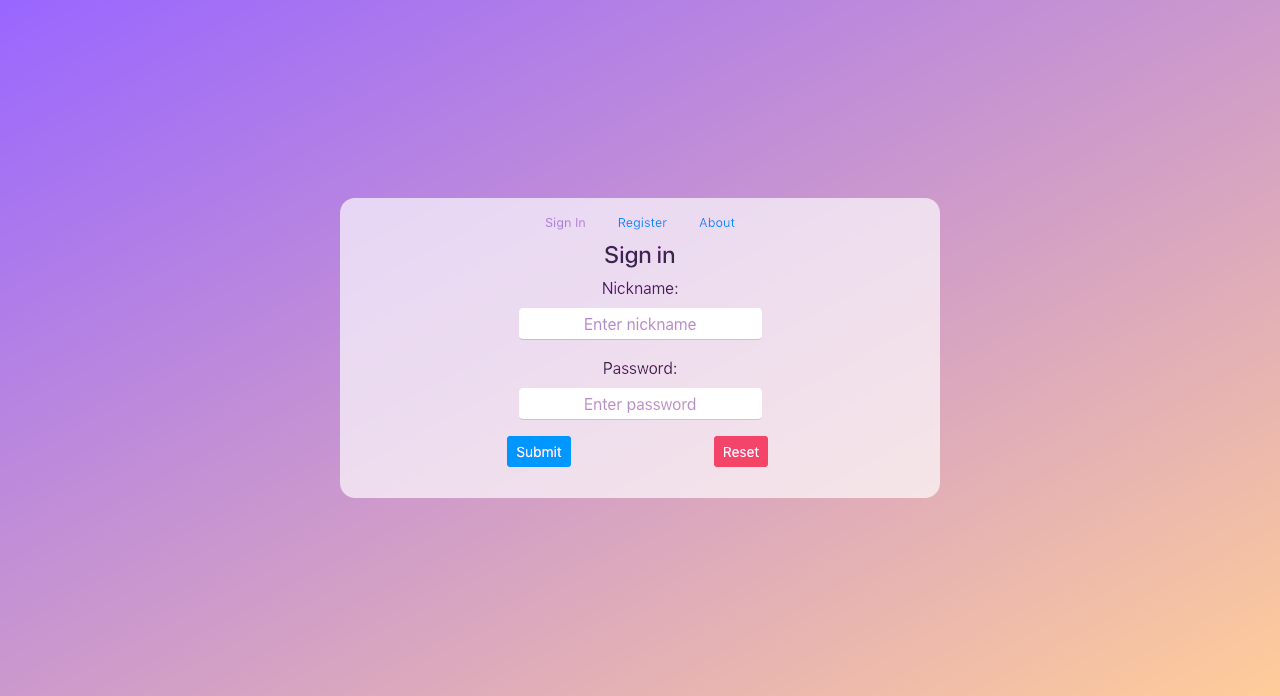
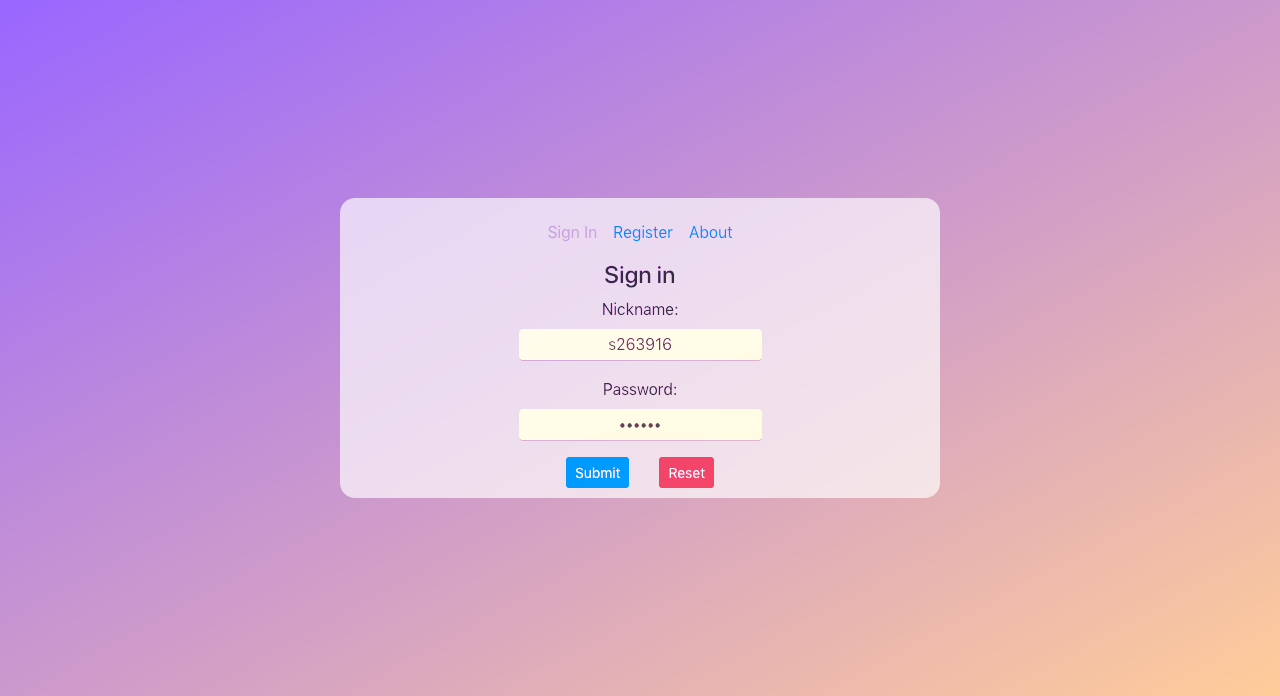
added security enhancements

Changed region(s): [[0.375, 0.3017, 0.625, 0.7241]]

diff --git a/src/components/CoordPlane.vue b/src/components/CoordPlane.vue
@@ -74,6 +74,7 @@
 <script>
     import {eventBus} from "../main";
     import Dot from "./Dot.vue";
+    import toast from "@/lib/toast.js";
 
     export default {
         name: "CoordPlane",
@@ -82,7 +83,7 @@
         },
         data() {
             return {
-                radius: 1
+                radius: 0
             };
         },
         components: {dot: Dot},
@@ -93,21 +94,25 @@
         },
         methods: {
             graphClick(click) {
-                let plane = this.$refs.plane;
-                let width = 250;
-                let height = 250;
-                let coordX = click.pageX - plane.getBoundingClientRect().left;
-                let coordY = click.pageY - plane.getBoundingClientRect().top;
-                let relX = coordX - width / 2;
-                let relY = coordY - height / 2;
-                relY = -relY;
-                let x = (relX / 125) * 6.25;
-                let y = (relY / 125) * 6.25;
-                x = +(x + "").substring(0, 5);
-                y = +(y + "").substring(0, 5);
-                let entry = {x, y};
-                entry.r = this.radius / 20;
-                this.$emit("addentry", entry);
+                if (this.radius > 0) {
+                    let plane = this.$refs.plane;
+                    let width = 250;
+                    let height = 250;
+                    let coordX = click.pageX - plane.getBoundingClientRect().left;
+                    let coordY = click.pageY - plane.getBoundingClientRect().top;
+                    let relX = coordX - width / 2;
+                    let relY = coordY - height / 2;
+                    relY = -relY;
+                    let x = (relX / 125) * 6.25;
+                    let y = (relY / 125) * 6.25;
+                    x = +(x + "").substring(0, 5);
+                    y = +(y + "").substring(0, 5);
+                    let entry = {x, y};
+                    entry.r = this.radius / 20;
+                    this.$emit("addentry", entry);
+                } else {
+                    toast.error("Choose radius!");
+                }
             }
         },
         mounted() {

diff --git a/src/components/Form.vue b/src/components/Form.vue
@@ -62,7 +62,7 @@
         data() {
             return {
                 selectedX: null,
-                selectedR: 0,
+                selectedR: null,
                 selectedY: null,
                 optionsX: [
                     {text: '-3', value: '-3'},
@@ -76,7 +76,6 @@
                     {text: '5', value: '5'}
                 ],
                 optionsR: [
-                    {text: '0', value: '0'},
                     {text: '1', value: '1'},
                     {text: '2', value: '2'},
                     {text: '3', value: '3'},
@@ -104,7 +103,7 @@
                 } else if (Boolean(this.selectedY) && (+this.selectedY < -3 || +this.selectedY > 5)) {
                     return 'Enter number in range of -3..5'
                 } else {
-                    return 'Please enter something'
+                    return 'Please enter a number'
                 }
             },
             validFeedbackY() {

diff --git a/src/store/modules/user.js b/src/store/modules/user.js
@@ -25,7 +25,6 @@ const mutations = {
         state.password = password;
         window.localStorage.currentUser = JSON.stringify({
             username,
-            password,
             token
         });
         state.isAuthenticated = true;
@@ -64,11 +63,11 @@ const actions = {
             });
     },
     LOGIN: async (context, payload) => {
-        let {username, password} = payload;
+        let {token} = payload;
             api()
                 .get("/api/login", {
                     headers: {
-                        'Authorization': 'Basic ' + window.btoa(username + ':' + password)
+                        'Authorization': 'Basic ' + token
                     }
                 })
                 .then(response => {

diff --git a/src/service/api.js b/src/service/api.js
@@ -15,7 +15,7 @@ export default (includeAuth = true) => {
         if (localStorage.getItem("currentUser") !== null) {
             let currentUser = currentUserString ? JSON.parse(currentUserString) : "";
             if (currentUser !== null) {
-                request.headers.Authorization = "Basic " + window.btoa(currentUser.username + ':' + currentUser.password);
+                request.headers.Authorization = "Basic " + currentUser.token;
             }
         }
     }

diff --git a/src/views/Login.vue b/src/views/Login.vue
@@ -94,7 +94,8 @@
                 evt.preventDefault();
                 let user = {
                     username: this.form.nickname,
-                    password: this.form.password
+                    password: this.form.password,
+                    token: window.btoa(this.form.nickname + ':' + this.form.password)
                 };
                 this.$store.dispatch("LOGIN", user);
 
